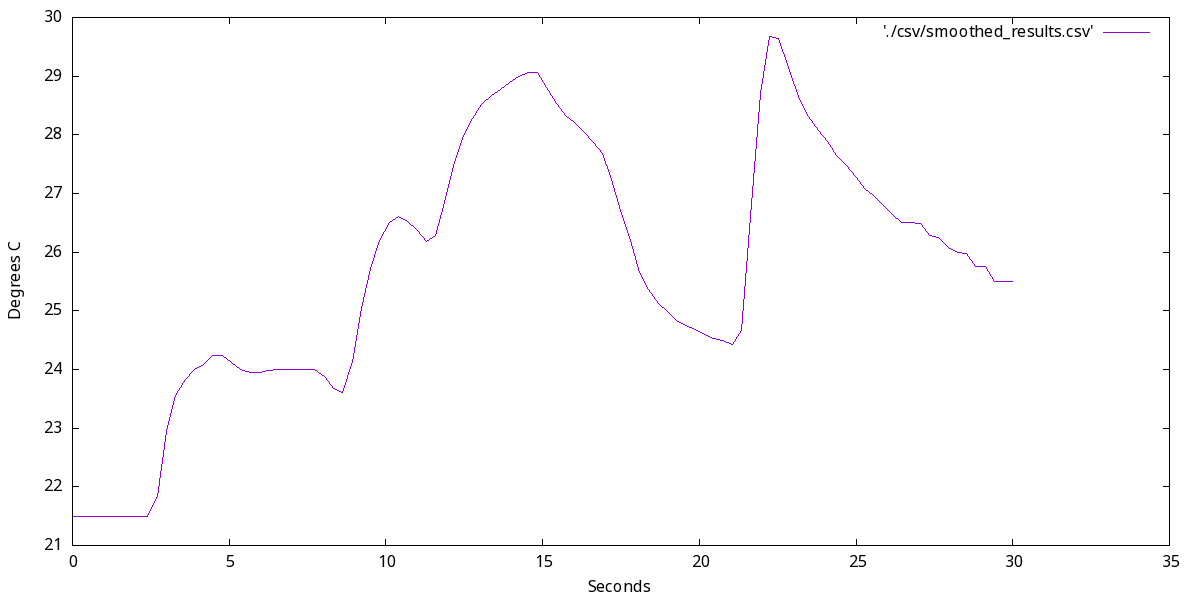
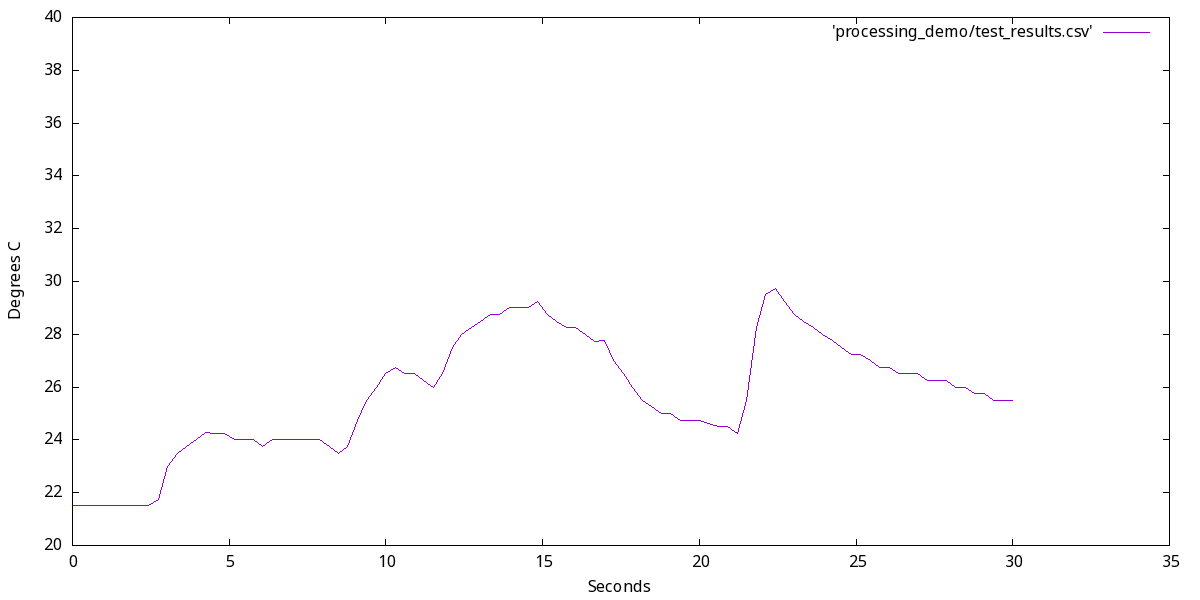
smoothing adjustments

diff --git a/testing/smooth.py b/testing/smooth.py
@@ -1,0 +1,88 @@
+#!/usr/bin/env python3
+import sys 
+
+def deviation_from_average(average, value):
+    return 1 - (value / average)
+
+def deviation_from_previous(previous, value):
+    return 1 - (value / previous)
+
+
+def smooth_results(old_file, new_file):
+    temp_sum = 0
+    temp_count = 0
+    float_prev_temp = 0
+    prev_temp = ""
+    deviation_detected = False
+
+                        #deviation, sec
+    highest_av_deviation = [0, ""]
+    highest_prev_deviation = [0, ""]
+
+    with open(old_file, "r") as of:
+        of_contents = of.read()
+
+    with open(new_file, "w+") as nf:
+        for of_line in of_contents.split("\n"):
+            try:
+                sec, temp = of_line.split(",")
+                float_temp = float(temp)
+                temp_sum += float_temp
+                temp_count += 1
+
+                if temp_count == 1:
+                    float_prev_temp = float_temp
+
+                av_deviation = deviation_from_average((temp_sum/temp_count), float_temp)
+                prev_deviation = deviation_from_previous(float_prev_temp, float_temp)
+
+                if av_deviation > highest_av_deviation[0]:
+                    highest_av_deviation[0] = av_deviation
+                    highest_av_deviation[1] = sec
+                if prev_deviation > highest_prev_deviation[0]:
+                    highest_prev_deviation[0] = prev_deviation
+                    highest_prev_deviation[1] = sec
+
+
+                if -0.12 <= prev_deviation <= 0.12:
+                    if not deviation_detected:
+                        nf.write(sec+","+temp+"\n")
+                        #print(sec+","+temp)
+                    #else:
+                    #    nf.write(sec+","+temp+"\n")
+                    #    print(sec+","+temp)
+
+                else:                                   #If current temperature exceeds deviation quota, then just write the previous temperature to smooth things out
+                    if deviation_detected:
+                        deviation_detected = False
+                    else:
+                        deviation_detected = True
+                    #print("DEVIATION AT",sec)
+
+                prev_temp = str(float_temp)
+                float_prev_temp = float_temp
+                
+            except ValueError:
+                continue
+    
+    print(highest_av_deviation)
+    print(highest_prev_deviation)
+
+def main(args):
+    try:
+        input_file, output_file = args[1:3]
+        smooth_results(input_file, output_file)
+    except ValueError:
+        print("Usage: ./smooth.py <input-file> <output-file>")
+
+if __name__ == "__main__":
+    args = sys.argv
+    main(args)
+
+
+
+
+
+
+
+

diff --git a/testing/ser.py b/testing/ser.py
@@ -1,0 +1,53 @@
+#!/usr/bin/env python3
+
+import serial
+import time
+import sys
+
+
+def begin_test(duration, output_file):
+
+    duration = int(duration)
+
+    start = time.time()
+    s = serial.Serial("/dev/ttyACM0", 115200)
+    previous_temperature = 0
+    temp_sum = 0
+    temp_count = 0
+    float_temp = 0
+
+    with open(output_file, "w+") as f: 
+        while True:
+            line_bytes = s.readline()
+            try:
+                line = line_bytes.decode('utf-8').strip() #line_bytes is a byte string, so we want to encode that byte string into utf-8 so it's easier to work with. strip() removes the \r\n from the end of the string.
+                split_line = line.split(" ")
+                
+                if len(split_line) == 1:
+                    temperature = split_line[0]
+                    elapsed_time = time.time() - start
+
+
+                    f.write(str(elapsed_time)+","+temperature+"\n")
+                    print(str(elapsed_time)+","+temperature)
+                    
+
+                    if elapsed_time > duration:
+                        break
+
+            except UnicodeDecodeError:
+                continue
+
+def main(args):
+    try:
+        duration, output_file = args[1:]
+        begin_test(duration, output_file)
+    except ValueError:
+        print("Usage: ./ser.py <duration> <output-file>")
+    
+if __name__ == "__main__":
+    args = sys.argv
+    main(args)
+
+
+
